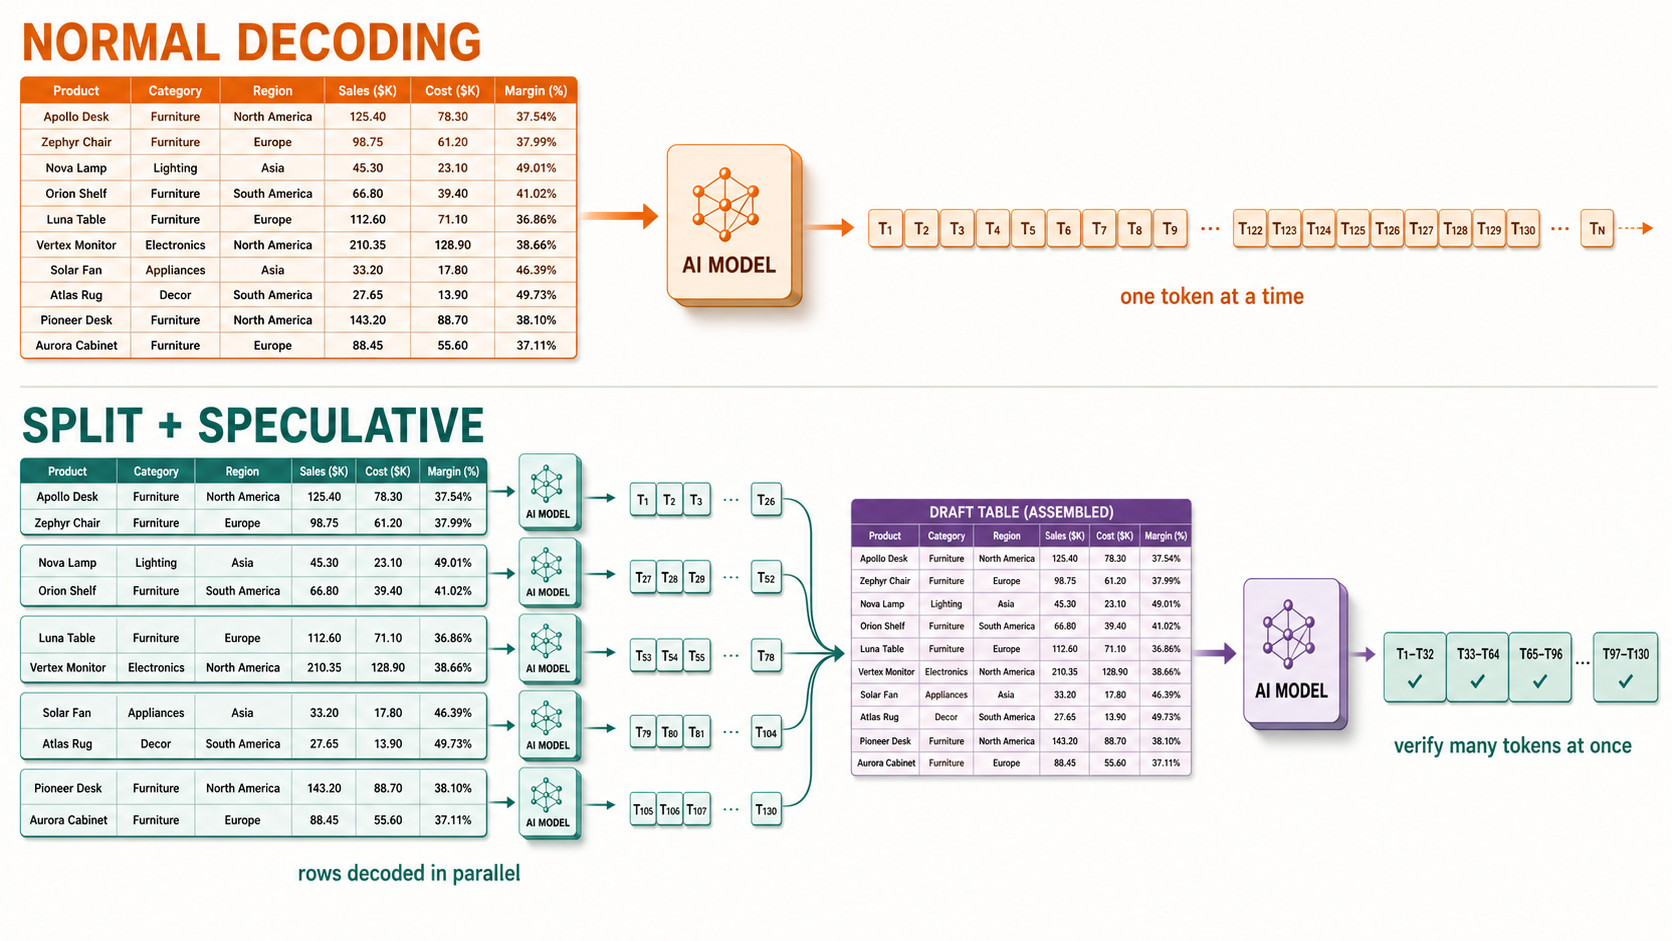
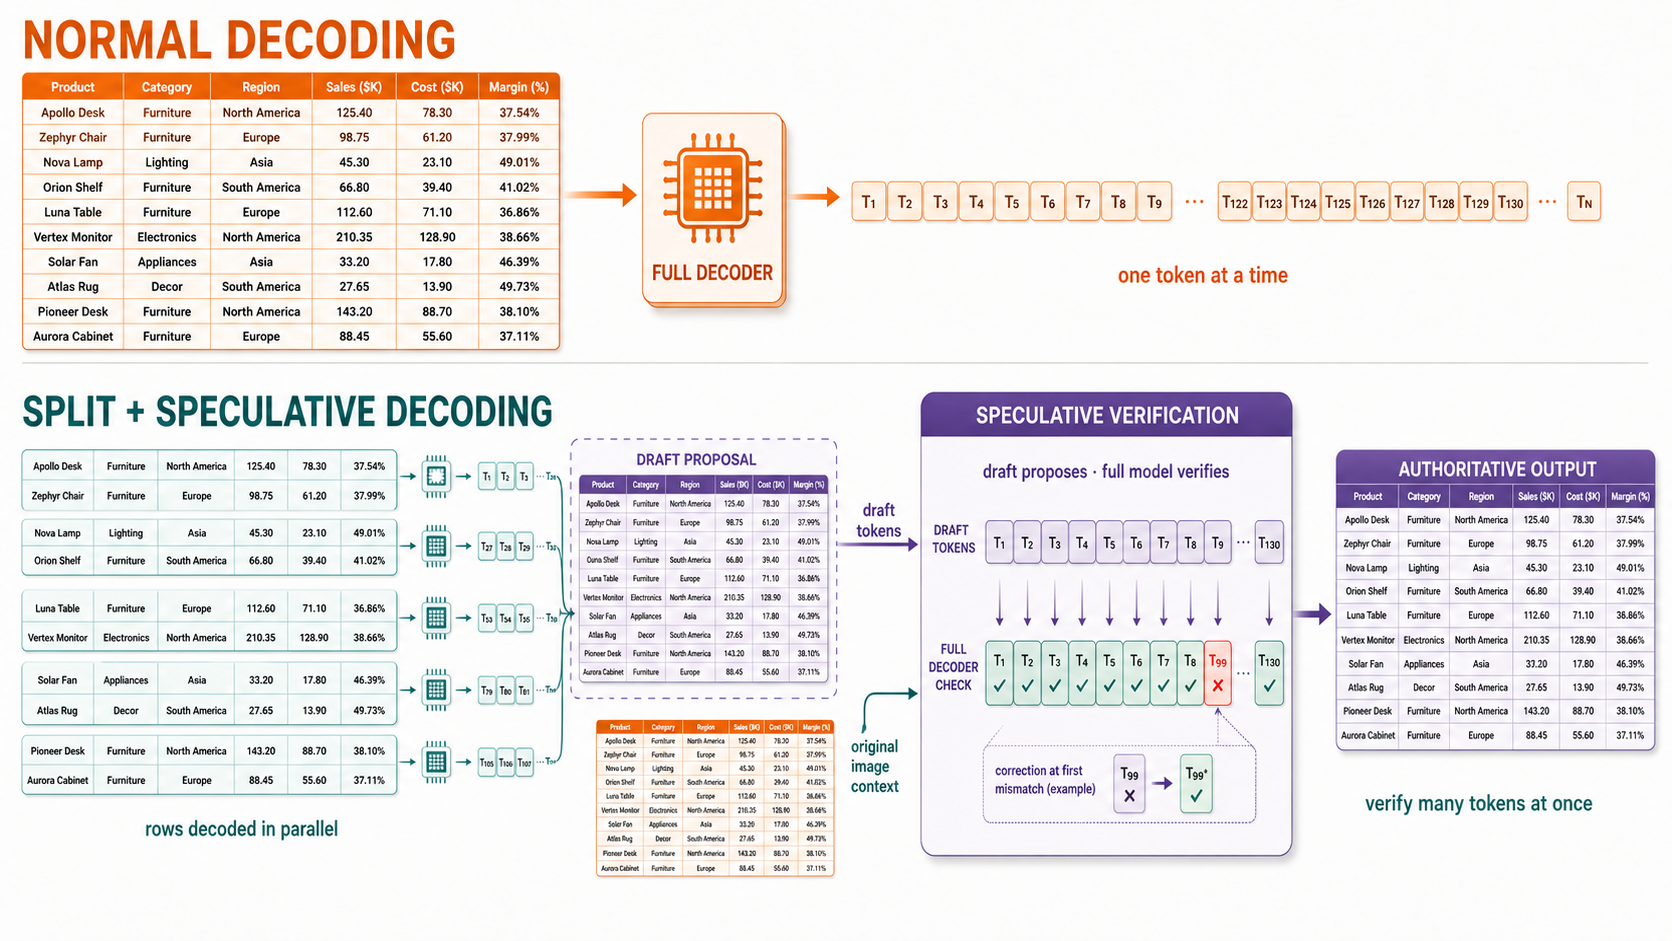
docs: emphasize speculative verification in table diagram

Changed region(s): [[0.0, 0.0, 0.9952, 0.9554], [0.8086, 0.8321, 0.9641, 0.8629], [0.1866, 0.9245, 0.311, 0.9554]]

diff --git a/09_persistent_page_engine/310P_TABLE_LATENCY_FUNDAMENTALS.md b/09_persistent_page_engine/310P_TABLE_LATENCY_FUNDAMENTALS.md
@@ -193,6 +193,10 @@ The draft does not control the final answer. The full-table model still sees the
 original image and remains authoritative. It accepts draft content where it
 agrees and corrects it where it does not.
 
+Splitting and stitching alone are not the optimization. They only create the
+proposal. The speedup comes when speculative verification uses that proposal to
+accept many authoritative output tokens in one full-model call.
+
 ### Why it can be faster
 
 Normal autoregressive decoding uses one expensive full-model call for each
